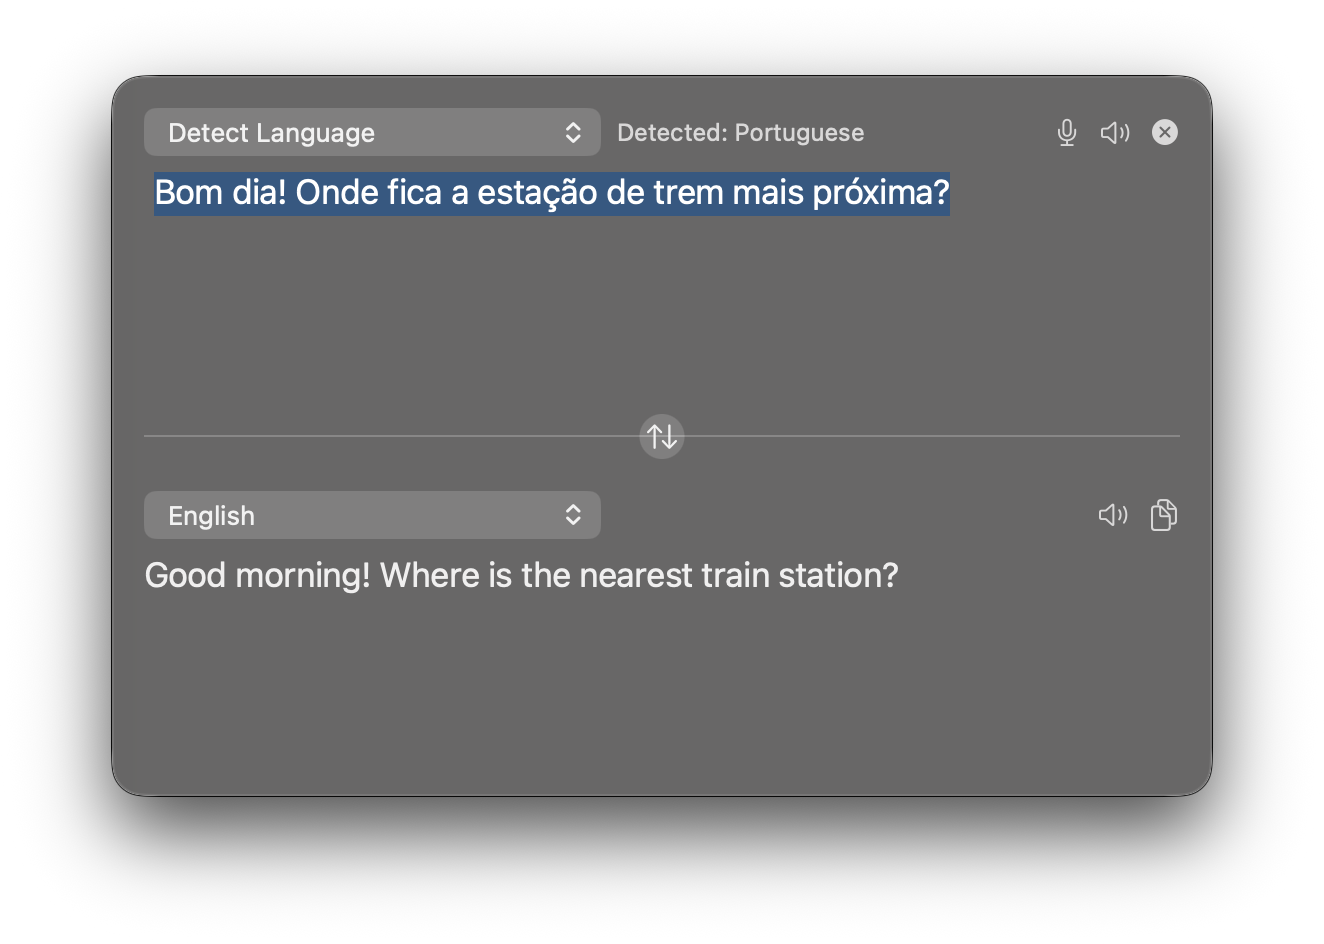
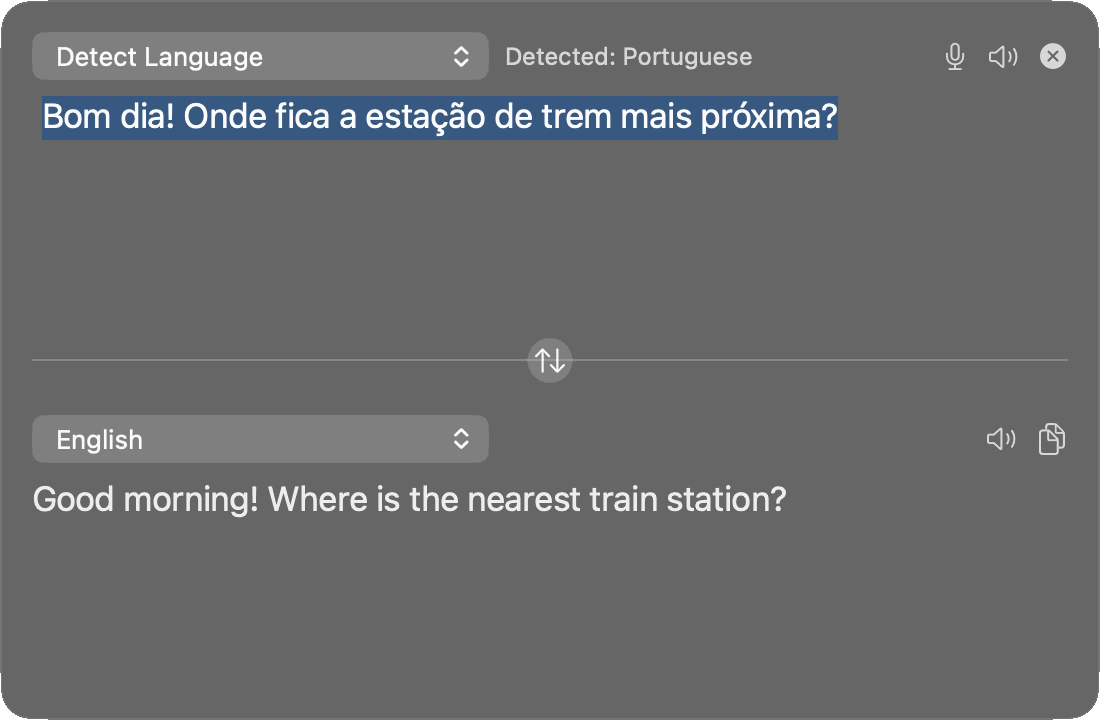
Shrink the README screenshot
Crop the window out of its shadow and store it as a 256-colour PNG:
253 KB to 14 KB. Show it at the panel's real width.

diff --git a/README.md b/README.md
@@ -9,7 +9,9 @@ read the translation. It uses Apple's Translation framework, so the text you tra
 ![macOS 15+](https://img.shields.io/badge/macOS-15%2B-blue)
 ![Swift 6](https://img.shields.io/badge/Swift-6-orange)
 
-![TranslateMac translating a Portuguese sentence to English in a floating panel](docs/screenshot.png)
+<p align="center">
+  <img src="docs/screenshot.png" width="550" alt="TranslateMac translating a Portuguese sentence to English in a floating panel">
+</p>
 
 ## Features
 
